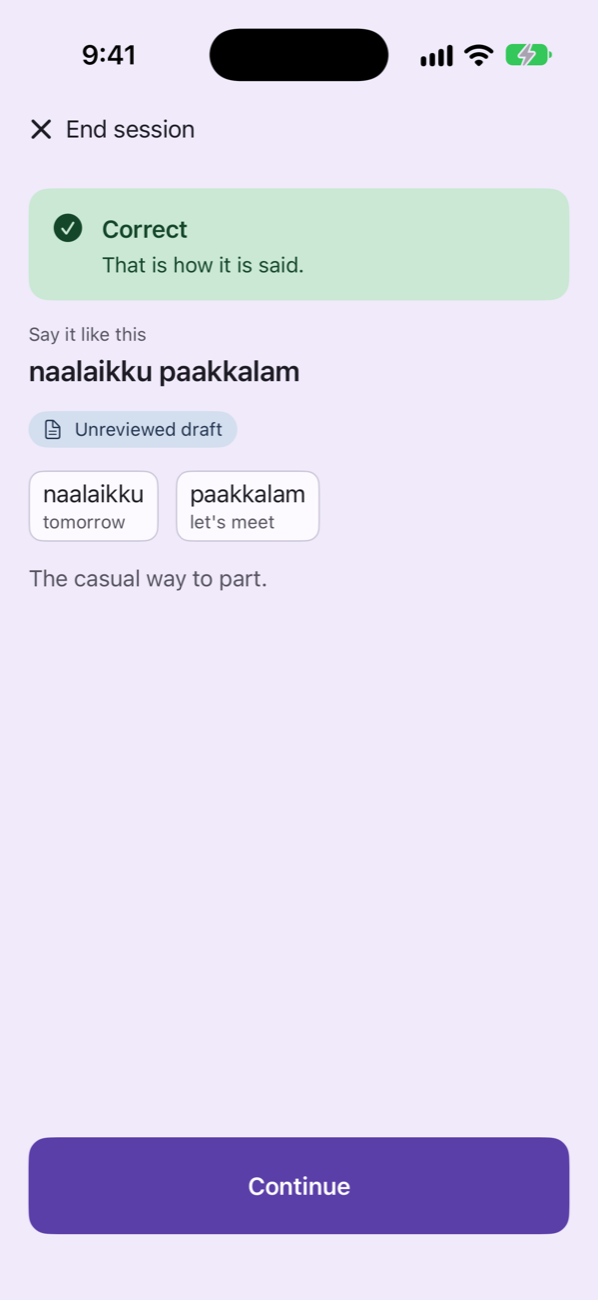
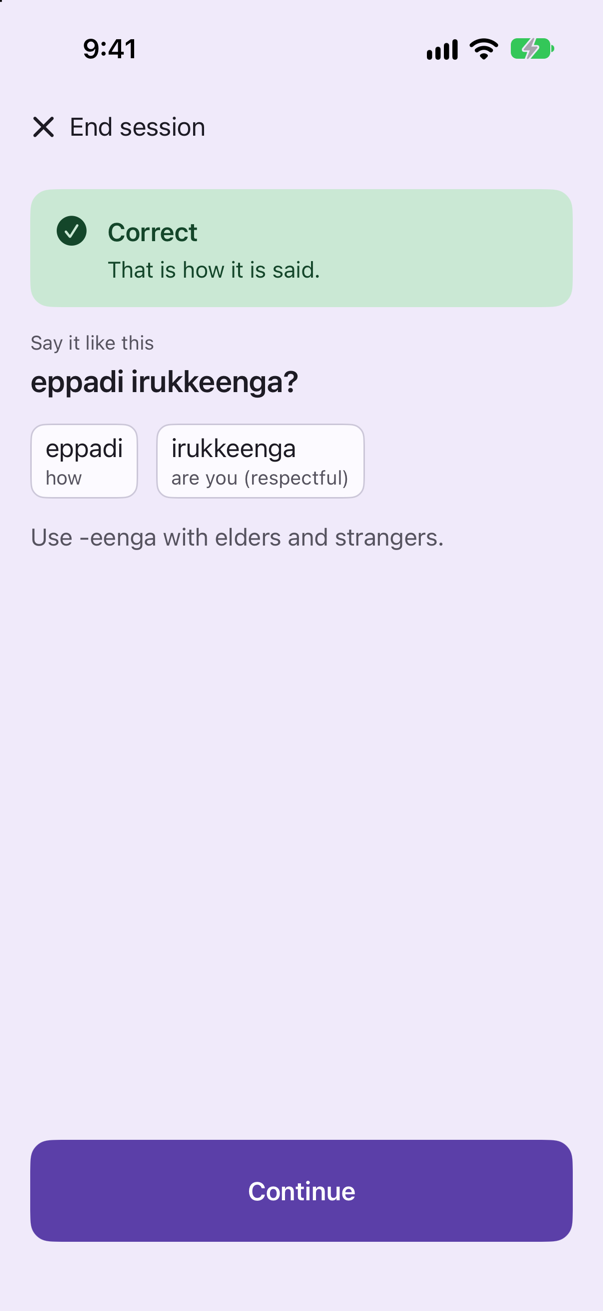
Docs: README and handoff reflect the two-course app; new screenshots (#38)
Retakes the README screenshots from the current build (language step, Home by level, Telugu course, language switch) and fixes stale statements: course contents and review counts, exam status, storage, decision count, roadmap.

diff --git a/README.md b/README.md
@@ -5,15 +5,21 @@
 [![CI](https://github.com/darshan-r27/blt.ai/actions/workflows/ci.yml/badge.svg)](https://github.com/darshan-r27/blt.ai/actions/workflows/ci.yml)
 
 <p>
-  <img src="docs/images/intro.png" width="200" alt="Intro screen: blt.ai, learn the Tamil people actually speak">
-  <img src="docs/images/home.png" width="200" alt="Home screen: a greeting and five scenario cards with completion bars">
-  <img src="docs/images/question.png" width="200" alt="Question screen: an English prompt and four Tamil options">
-  <img src="docs/images/feedback.png" width="200" alt="Feedback screen: the correct phrase with a word-by-word gloss">
+  <img src="docs/images/intro.png" width="200" alt="Intro screen: blt.ai, learn the Tamil / Telugu people actually speak">
+  <img src="docs/images/language.png" width="200" alt="Language step: choose Tamil or Telugu, changeable later in Settings">
+  <img src="docs/images/home.png" width="200" alt="Home screen for the Tamil course: a continue card and Level 1 lessons with completion bars">
+  <img src="docs/images/question.png" width="200" alt="Question screen: an English prompt and four romanised Tamil options">
+</p>
+<p>
+  <img src="docs/images/feedback.png" width="200" alt="Feedback screen: the correct phrase with a word-by-word gloss and a note on who to say it to">
+  <img src="docs/images/home-telugu.png" width="200" alt="Home screen for the Telugu course, with its own progress">
+  <img src="docs/images/question-telugu.png" width="200" alt="Question screen in the Telugu course, with an Unreviewed draft label">
+  <img src="docs/images/settings-switch.png" width="200" alt="Settings: switching language asks first and keeps each language's progress">
 </p>
 
 This is a portfolio project. It runs on a simulator or your own iPhone; it is not on the App Store.
 
-> **Where it stands.** The app and the first part of the Tamil course are built and described below. The language choice (first launch and Settings) is built. The Telugu lessons and the full 2,000-phrase courses are planned and in progress: see [Roadmap](#roadmap), [`plan.md`](plan.md) and [`docs/COURSE_SYLLABUS.md`](docs/COURSE_SYLLABUS.md). The screenshots show the current, Tamil-only build.
+> **Where it stands.** The two-course app is built: language choice, Home grouped by level, per-language progress, lesson import, and the final-exam screen. Levels 1 and 2 are drafted for both courses (480 phrases each). Only the first 100 Tamil phrases have been checked by a native speaker; the rest, and all of Telugu, are labelled "Unreviewed draft" in the app until the native reviewers check them. The remaining six levels, each course's exam paper, and the review passes are still ahead: see [Roadmap](#roadmap), [`plan.md`](plan.md) and [`docs/COURSE_SYLLABUS.md`](docs/COURSE_SYLLABUS.md). The screenshots are from the current build.
 
 ## Who it is for
 
@@ -38,15 +44,17 @@ The argument runs both ways, which is why one syllabus serves both courses. Only
 
 ## What is built today
 
-The Tamil course's first five lessons, and everything around them:
+Two courses, each with Levels 1 and 2 (24 lessons, 480 phrases), and everything around them:
 
-- **Five everyday lessons (Level 1), 100 phrases:** greetings, getting around, food, shopping, and home and family.
-- **Multiple choice.** An English prompt, four options in romanised Tamil.
+- **Two courses from one syllabus.** After entering a name, you choose Tamil or Telugu. Switching later in Settings keeps each language's progress. Reset progress clears only the language you are on.
+- **Lessons grouped by level.** Level 1 is survival (greetings, getting around, food, numbers and money, asking for help and more); Level 2 covers everyday doing, habits, likes and describing. Levels are ordered but not locked, and Home suggests the next lesson.
+- **Multiple choice.** An English prompt, four options in romanised Tamil or Telugu.
 - **Feedback that teaches.** Each answer shows the phrase, a word-by-word gloss, and a note on who you would say it to.
 - **Three outcomes, not two.** "Right sentence, wrong register" is its own result, so saying the casual form to an elder is corrected without being marked simply wrong.
 - **Spaced repetition.** An SM-2 scheduler decides what comes back and when. A wrong answer is due again immediately, and a phrase counts as complete only when your latest answer was correct.
 - **Shuffled sessions.** Each session samples up to ten phrases and shuffles questions and options, so you cannot pass by remembering positions.
 - **Never red.** Mistakes are shown in a neutral tone. The app is meant to feel like practice, not a test.
+- **A final exam, not yet open.** The exam screen is built (100 questions, pass mark 75, no feedback during the sitting, score-only history). It appears on Home only when a course has an exam paper, and no paper is written yet.
 - **Lessons can be updated on the phone.** Settings has an "Import lessons" action: pick lesson files from the Files app and the app validates them (all or nothing) and starts using them straight away. See below.
 - **Private by construction.** The only personal data is a display name, stored on the device. There is no account, no network code, and no analytics.
 
@@ -74,14 +82,14 @@ A few choices worth a look:
 
 - **Content is data, not code.** The phrases live in [`content/tamil/`](content/tamil/) and `content/telugu/` (one folder per course) as JSON and are validated when loaded. No Swift file contains Tamil text; tests use obviously fake fixtures. This is what makes a second language a content job more than a code job.
 - **"No network" is enforced, not promised.** [`scripts/check-forbidden-apis.sh`](scripts/check-forbidden-apis.sh) fails the build if networking, audio or speech APIs, network entitlements or permission strings appear in the source. [`scripts/check-binary.sh`](scripts/check-binary.sh) then inspects the compiled app for the same thing.
-- **Storage is two small JSON files**, written atomically with complete file protection. A damaged file is reported to the user and never silently overwritten.
+- **Storage is a few small JSON files per language** (progress, exam results, imported lessons) plus one profile file, written atomically with complete file protection. A damaged file is reported to the user and never silently overwritten.
 - **No dependencies.** Nothing third-party is linked.
 - **Warnings are errors**, in the package and in the test script, and SwiftLint runs in strict mode.
-- **Decisions are written down.** [`docs/DECISIONS.md`](docs/DECISIONS.md) records 44 decisions, including the ones that were later reversed and why.
+- **Decisions are written down.** [`docs/DECISIONS.md`](docs/DECISIONS.md) records 46 decisions, including the ones that were later reversed and why.
 
 ## Where the content stands
 
-The 100 Tamil phrases were drafted by an AI and have all been checked by hand by a native Tamil speaker. Telugu lessons will be drafted the same way and checked by a native Telugu speaker ([`docs/REVIEWER_GUIDE.md`](docs/REVIEWER_GUIDE.md)). Every phrase carries a review status in its data file, and the app shows an "Unreviewed draft" label on any phrase that has not been checked. The Settings screen says the lessons are native-reviewed only when every phrase is marked reviewed; the statement is computed from the data, not typed in.
+Every phrase was drafted by an AI. The first 100 Tamil phrases (Level 1, lessons 1 to 5) have been checked by hand by a native Tamil speaker; the other 380 Tamil phrases and all 480 Telugu phrases are unreviewed drafts, to be checked level by level by a native Tamil speaker and a native Telugu speaker respectively ([`docs/REVIEWER_GUIDE.md`](docs/REVIEWER_GUIDE.md)). Every phrase carries a review status in its data file, and the app shows an "Unreviewed draft" label on any phrase that has not been checked. The Settings screen says the lessons are native-reviewed only when every phrase is marked reviewed; the statement is computed from the data, not typed in.
 
 [`tools/content-editor/`](tools/content-editor/) is a single offline HTML page for that review: it walks through every phrase and applies the same validation rules as the app.
 
@@ -135,12 +143,11 @@ The app was built with Claude Code, with the author acting as product owner and 
 
 ## Roadmap
 
-**Now: two courses.** The plan is [`plan.md`](plan.md); the reasoning is decisions 038 to 044.
+**Now: two courses.** The plan is [`plan.md`](plan.md); the reasoning is decisions 038 to 046.
 
-- Pick the language you are learning after entering your name; switch in Settings with each language's progress kept.
-- A Telugu course beside the Tamil one, from one syllabus: 8 levels, 100 lessons and 2,000 phrases each, sharing English prompts wherever that is natural.
-- Home grouped by level, checks against duplicate phrases, and a 100-question final exam per language with a pass mark of 75.
-- Each course reviewed by its native speaker, one level at a time.
+- Done: choosing and switching language with separate progress, a Telugu course beside the Tamil one from one syllabus, Home grouped by level, duplicate-phrase checks, the exam screen and the exam paper loader, and Levels 1 and 2 drafted for both courses.
+- Next: native review of Levels 1 and 2 in both courses (the owner for Tamil, a native Telugu speaker for Telugu), then Levels 3 to 8 one level at a time, each drafted only after the previous level is reviewed. Each course will reach 8 levels, 100 lessons and 2,000 phrases, sharing English prompts wherever that is natural.
+- Last: one 100-question exam paper per language (pass mark 75), written after that language's Level 8 is reviewed.
 
 **v2: voice.** This is the original thesis, and v1 is the foundation for it. It applies to both languages.
 

diff --git a/docs/HANDOFF.md b/docs/HANDOFF.md
@@ -4,7 +4,7 @@ Read this first in a new session, then `CLAUDE.md`. Last updated 2026-10-12 (Lev
 
 ## Start here (next session)
 **blt.ai is a two-way course (DECISIONS 042): Tamil for the Telugu speaker and Telugu for the Tamil speaker.**
-**Everything in `plan.md` except the exam screen, the exam papers and the course content is built and merged on `main`** (Waves 0 to 4, the exam engine and exam storage). The app asks for a name and a language, shows the chosen course's lessons grouped by level, keeps separate progress and imported lessons per language, and switches language in Settings. Tamil has the five reviewed lessons (100 phrases, Level 1); **Telugu has no lessons yet** (Home says so). Nothing is waiting in an unmerged branch or an open PR.
+**Everything in `plan.md` except the exam papers and the review and drafting of Levels 3 to 8 is built and merged on `main`** (Waves 0 to 4, the exam engine and exam storage). The app asks for a name and a language, shows the chosen course's lessons grouped by level, keeps separate progress and imported lessons per language, and switches language in Settings. Both courses have Levels 1 and 2 drafted (480 phrases each); only Tamil lessons 1 to 5 are reviewed, the rest is `unreviewed` (the Settings count reads "100 of 480 reviewed" for Tamil). Nothing is waiting in an unmerged branch or an open PR.
 
 **What to do next, in this order**
 1. **Course content: Levels 1 and 2 are drafted for both courses and wait for review.** Level 1: PRs #29 and #30 (Tamil lessons 1 to 5 reviewed, the rest unreviewed). Level 2 (12 lessons, 240 phrases per language, all `unreviewed`) was drafted ahead of the Level 1 review at the owner's request. The drafting model is **Sonnet 5.5 at High effort**; the owner will check with Opus later. **Level 3 is drafted only after each language's reviewer says Levels 1 and 2 are done**, so their corrections land first (plan.md "Content" step 6); the Tamil and Telugu paces may differ. Rules for the drafter: read `docs/content/STYLE_NOTES_TAMIL.md` (rules from the owner's edits to lessons 1 to 5, plus the Level 2 notes) and `STYLE_NOTES_TELUGU.md` (the drafter's choices and the items least certain); update both with every review correction and re-apply them to the later level. Run `bash scripts/content-index.sh --check` before and after drafting and `--mirror` afterwards (a later duplicate is silently dropped by the loader). Files: `content/<language>/<ta|te>-lNN-uNN-<slug>.json`, items `<id>-iNN`, every item with `script`, all `unreviewed`; commit review edits only after the owner has seen the full `git diff content/`. Register mix is off the syllabus 40/40/20: Level 1 about 8% casual, 26% respectful, 66% no you-form; Level 2 about 20/14/66. Statements about things and people have no you-form, so reaching the target needs more questions to a friend or an elder in Level 3. The five original Tamil lessons' `script` spellings were backfilled (PR #35, merged after the owner read it).
@@ -24,7 +24,7 @@ Read this first in a new session, then `CLAUDE.md`. Last updated 2026-10-12 (Lev
 - Claude Code quirks: `gh`, `git worktree add`, `xcodebuild`, `swiftlint` and headless Chrome need the sandbox off for that command (`/sandbox` changes it). The permission hook denies `git reset --hard`, `git push --force` and anything containing `rm -rf` (use `git switch -c <name> <base>`, merge-and-push, and ask the owner to run any `rm -rf`). Do not run `xcrun simctl shutdown all` while agents run.
 
 ## What this is
-**blt.ai** (Budugu Learns Tamil / Telugu): an iOS 27 / SwiftUI app for a couple learning each other's language, with English as the shared medium. **Text-only multiple choice** (English prompt, four romanised options, feedback, scheduling); voice is v2. Portfolio project, not distributed. Repo: `github.com/darshan-r27/blt.ai` (public), workspace `~/Claude/dev/blt.ai`. **Built today:** the app, the language choice, and Level 1 of both courses (240 phrases each, mostly unreviewed). **Planned:** Levels 2 to 8 (2,000 phrases per course), the exam screen and the exam papers.
+**blt.ai** (Budugu Learns Tamil / Telugu): an iOS 27 / SwiftUI app for a couple learning each other's language, with English as the shared medium. **Text-only multiple choice** (English prompt, four romanised options, feedback, scheduling); voice is v2. Portfolio project, not distributed. Repo: `github.com/darshan-r27/blt.ai` (public), workspace `~/Claude/dev/blt.ai`. **Built today:** the app, the language choice, the exam screen and paper loader, and Levels 1 and 2 of both courses (480 phrases each, mostly unreviewed). **Planned:** Levels 3 to 8 (2,000 phrases per course) and the exam papers.
 
 Product rules that matter: two spoken registers only per language (casual and respectful; no written or literary forms); Telugu is the standard Coastal Andhra spoken variety; common English loanwords stay English; never red except Reset progress (037); no network, audio or speech; the only personal data is a display name stored on the device (030).
 

diff --git a/docs/ARCHITECTURE.md b/docs/ARCHITECTURE.md
@@ -1,6 +1,6 @@
 # BLT.ai architecture (v1, as built)
 
-blt.ai is a text-only, multiple-choice SwiftUI app. Today it teaches colloquial Tamil to Telugu speakers; it is a two-way course, Tamil and Telugu, for a couple learning each other's language (see "Two courses" below; only the Tamil lessons are written so far). Everything runs on the device: there is no backend, no account, and no network code. Unless a section says "planned", this page describes what exists today. The voice product in [`PRD.md`](PRD.md) and [`BUILD_PLAN.md`](BUILD_PLAN.md) is the v2 plan, not the current code.
+blt.ai is a text-only, multiple-choice SwiftUI app. Today it teaches colloquial Tamil to Telugu speakers; it is a two-way course, Tamil and Telugu, for a couple learning each other's language (see "Two courses" below; Levels 1 and 2 are drafted for both courses, and only the first five Tamil lessons are native-reviewed). Everything runs on the device: there is no backend, no account, and no network code. Unless a section says "planned", this page describes what exists today. The voice product in [`PRD.md`](PRD.md) and [`BUILD_PLAN.md`](BUILD_PLAN.md) is the v2 plan, not the current code.
 
 ## Module map
 
@@ -72,7 +72,7 @@ The learner's language is only known after the profile has loaded, so the root i
 | No network, audio or speech APIs, no new Info.plist permissions | `scripts/check-forbidden-apis.sh` (source and project files) and `scripts/check-binary.sh` (the built app) |
 | Warnings are errors, strict concurrency | `Package.swift` settings, `scripts/test.sh`, SwiftLint strict |
 | No machine name or real email in commit history | `scripts/check-identity.sh` in CI and as a pre-push hook |
-| Lesson text (Tamil today, Telugu planned) only in `content/`; test fixtures are obviously fake | content conformance tests and review |
+| Lesson text (Tamil and Telugu) only in `content/`; test fixtures are obviously fake | content conformance tests and review |
 | Imported and bundled lessons are untrusted input | the same validator for both |
 
 ## Testing
@@ -100,7 +100,7 @@ The learner's language is only known after the profile has loaded, so the root i
 | Home | Grouped by level, with a Continue suggestion and the language being learned |
 | Reset progress | Clears only the language being learned; the confirmation names it |
 | Import | Into the current language only; a file for the other language is refused with a plain message |
-| Exam | Planned: one 100-question paper per language (041), not built yet |
+| Exam | One 100-question paper per language (041, 046). The engine, the screen, score-only result storage (`courses/<language>/exam.json`) and the paper loader are built; Home shows the exam card only when a paper loads, and no paper is written yet |
 
 ## Where v2 (voice) plugs in
 

diff --git a/tools/content-editor/README.md b/tools/content-editor/README.md
@@ -5,7 +5,7 @@ A single offline HTML file for reviewing and editing `content/*.json`. No networ
 **Use it**
 1. Open `tools/content-editor/index.html` in Chrome or Edge (double-click it, or `open tools/content-editor/index.html`).
 2. Click **Open content folder…** and pick the repo's `content` folder (allow read and write when asked).
-3. **Review every item in order:** the editor opens at the first item that is not yet `reviewed` and shows a bar at the top ("Item 37 of 100 · Scenario 2 of 5 · 36 of 100 reviewed"). **← Previous** and **Next →** only move one item at a time across all five scenarios; they change nothing. **Mark reviewed** sets the item's status to `reviewed` (only if you are happy to vouch for it) and moves to the next item. Keyboard: **Alt+→** next, **Alt+←** previous, **Alt+Shift+→** mark reviewed and go to the next item. Progress is simply how many items are `reviewed` in the files, so closing the page and reopening it resumes at the first item that is not. With **Auto-save when moving on** ticked (Chrome/Edge folder mode) each edited file is written as you go.
+3. **Review every item in order:** the editor opens at the first item that is not yet `reviewed` and shows a bar at the top ("Item 37 of 100 · Scenario 2 of 5 · 36 of 100 reviewed"). **← Previous** and **Next →** only move one item at a time across every lesson in the loaded files; they change nothing. **Mark reviewed** sets the item's status to `reviewed` (only if you are happy to vouch for it) and moves to the next item. Keyboard: **Alt+→** next, **Alt+←** previous, **Alt+Shift+→** mark reviewed and go to the next item. Progress is simply how many items are `reviewed` in the files, so closing the page and reopening it resumes at the first item that is not. With **Auto-save when moving on** ticked (Chrome/Edge folder mode) each edited file is written as you go.
    You can still jump to any item from the list on the left, or search and filter it. Edit the prompt, the correct answer, the wrong options, the accepted spellings and the word-by-word gloss (drag the ⠿ handle, or use the ↑ ↓ buttons, to reorder the words; **Sort by answer order** puts them in the order they appear in the correct answer). A live preview shows how the question looks and a checklist shows any problem.
 4. Click **Save changes**. Files are written in place; review the diff with `git diff content/`.
 

diff --git a/docs/COURSE_SYLLABUS.md b/docs/COURSE_SYLLABUS.md
@@ -44,8 +44,9 @@ Each course has the same shape.
 | 8 | Fluency | 12 | 240 |
 | | **Total** | **100** | **2,000** |
 
-**Where each course stands.** Tamil: the first five lessons of Level 1 (100 phrases) are written and reviewed;
-1,900 remain. Telugu: nothing is written; 2,000 remain. Together: 3,900 phrases to draft.
+**Where each course stands.** Both courses have Levels 1 and 2 drafted (24 lessons, 480 phrases each, 960 together). Tamil lessons 1 to 5
+(100 phrases) are native-reviewed; every other drafted phrase is unreviewed. 1,520 phrases remain to draft in each
+course (3,040 together), from Level 3 on.
 
 **Who reviews.** The owner reviews Tamil. The owner's partner, a native Telugu speaker, reviews Telugu
 (`docs/REVIEWER_GUIDE.md`).
@@ -119,7 +120,7 @@ Each course has the same shape.
 
 Both courses use this list. Paired lessons share a key: `ta-l02-u03` in the Tamil course and `te-l02-u03` in the
 Telugu course (DECISIONS 044). The first five Tamil lessons are renamed to this scheme (`ta-l01-u01` to `ta-l01-u05`).
-"Exists in Tamil" marks the five lessons already written and reviewed for the Tamil course.
+"Exists in Tamil" marks the five lessons written and reviewed first for the Tamil course; Levels 1 and 2 are now drafted for both courses.
 
 ### Level 1: Survival
 The learner can get through a first day: greet, ask, buy, eat, and say they don't understand.

diff --git a/CLAUDE.md b/CLAUDE.md
@@ -1,6 +1,6 @@
 # BLT.ai
 
-iOS app for a couple learning each other's language: colloquial Tamil for the Telugu speaker and colloquial Telugu for the Tamil speaker, with English as the shared medium (ADR 042). Text-only multiple choice; voice is v2 (ADR 024). On-device, no backend. Today only the Tamil course is built; `plan.md` is the plan for the rest.
+iOS app for a couple learning each other's language: colloquial Tamil for the Telugu speaker and colloquial Telugu for the Tamil speaker, with English as the shared medium (ADR 042). Text-only multiple choice; voice is v2 (ADR 024). On-device, no backend. Today both courses have Levels 1 and 2 drafted (unreviewed except the first five Tamil lessons); `plan.md` is the plan for the rest.
 
 Start every new session by reading `@docs/HANDOFF.md` (current status, commands, how we work). Read `@docs/ARCHITECTURE.md` for how the code is organised. Read `@docs/PRD.md` before any product decision (it describes the v2 voice product; v1 is defined by `@docs/MVP_PLAN.md` and DECISIONS 024 to 037, and the two-course plan by `plan.md`, `@docs/COURSE_SYLLABUS.md` and DECISIONS 038 to 044). Read `@docs/BUILD_PLAN.md` for v2 tasks. Read `@docs/SECURITY.md` before touching audio, file storage, `Info.plist`, or dependencies. Read `@docs/BACKEND.md` before any telemetry work.
 
